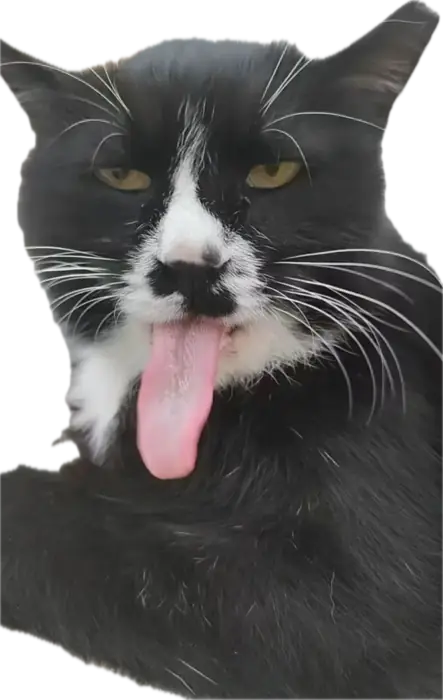
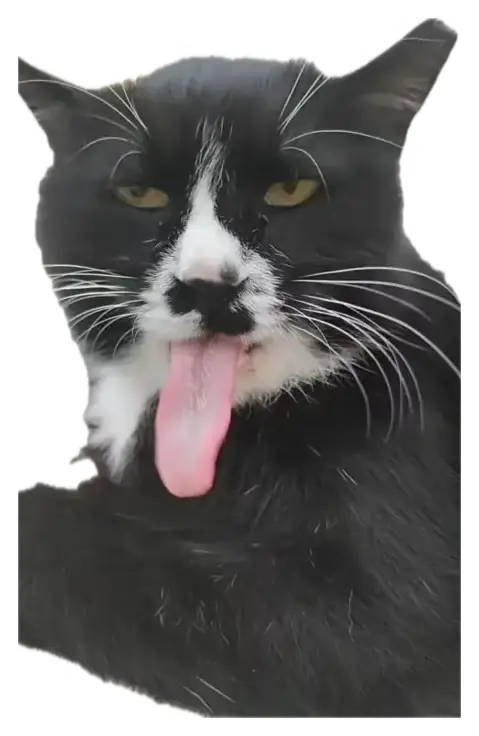
Fix Mulberry sticker clipping and scroll performance

diff --git a/_sass/layout/_misc.scss b/_sass/layout/_misc.scss
@@ -1,5 +1,5 @@
 .mulberry-main {
-  margin-top: 1em !important;
+  margin-top: -1em !important;
 }
 
 .mulberry-page-shell {
@@ -12,7 +12,7 @@
 }
 
 .mulberry-page-shell .page__title {
-  margin-bottom: 0.8rem;
+  margin-bottom: 1.25rem;
 }
 
 .mulberry-page-content {
@@ -110,8 +110,6 @@
   margin: 0;
   padding: 0;
   background: transparent;
-  content-visibility: auto;
-  contain-intrinsic-size: 158px 180px;
   transform: rotate(var(--sticker-tilt)) scale(var(--sticker-scale));
 }
 
@@ -121,17 +119,6 @@
   max-width: 100%;
   height: auto;
   max-height: 100%;
-  /* The source WebP files have transparent backgrounds. Crisp offset shadows
-     trace each cat's actual silhouette instead of creating a glowing box. */
-  filter: drop-shadow(3px 0 0 #fff)
-          drop-shadow(-3px 0 0 #fff)
-          drop-shadow(0 3px 0 #fff)
-          drop-shadow(0 -3px 0 #fff)
-          drop-shadow(2px 2px 0 #fff)
-          drop-shadow(-2px 2px 0 #fff)
-          drop-shadow(2px -2px 0 #fff)
-          drop-shadow(-2px -2px 0 #fff)
-          drop-shadow(0 7px 12px rgba(0, 0, 0, 0.2));
 }
 
 @media (max-width: 600px) {
